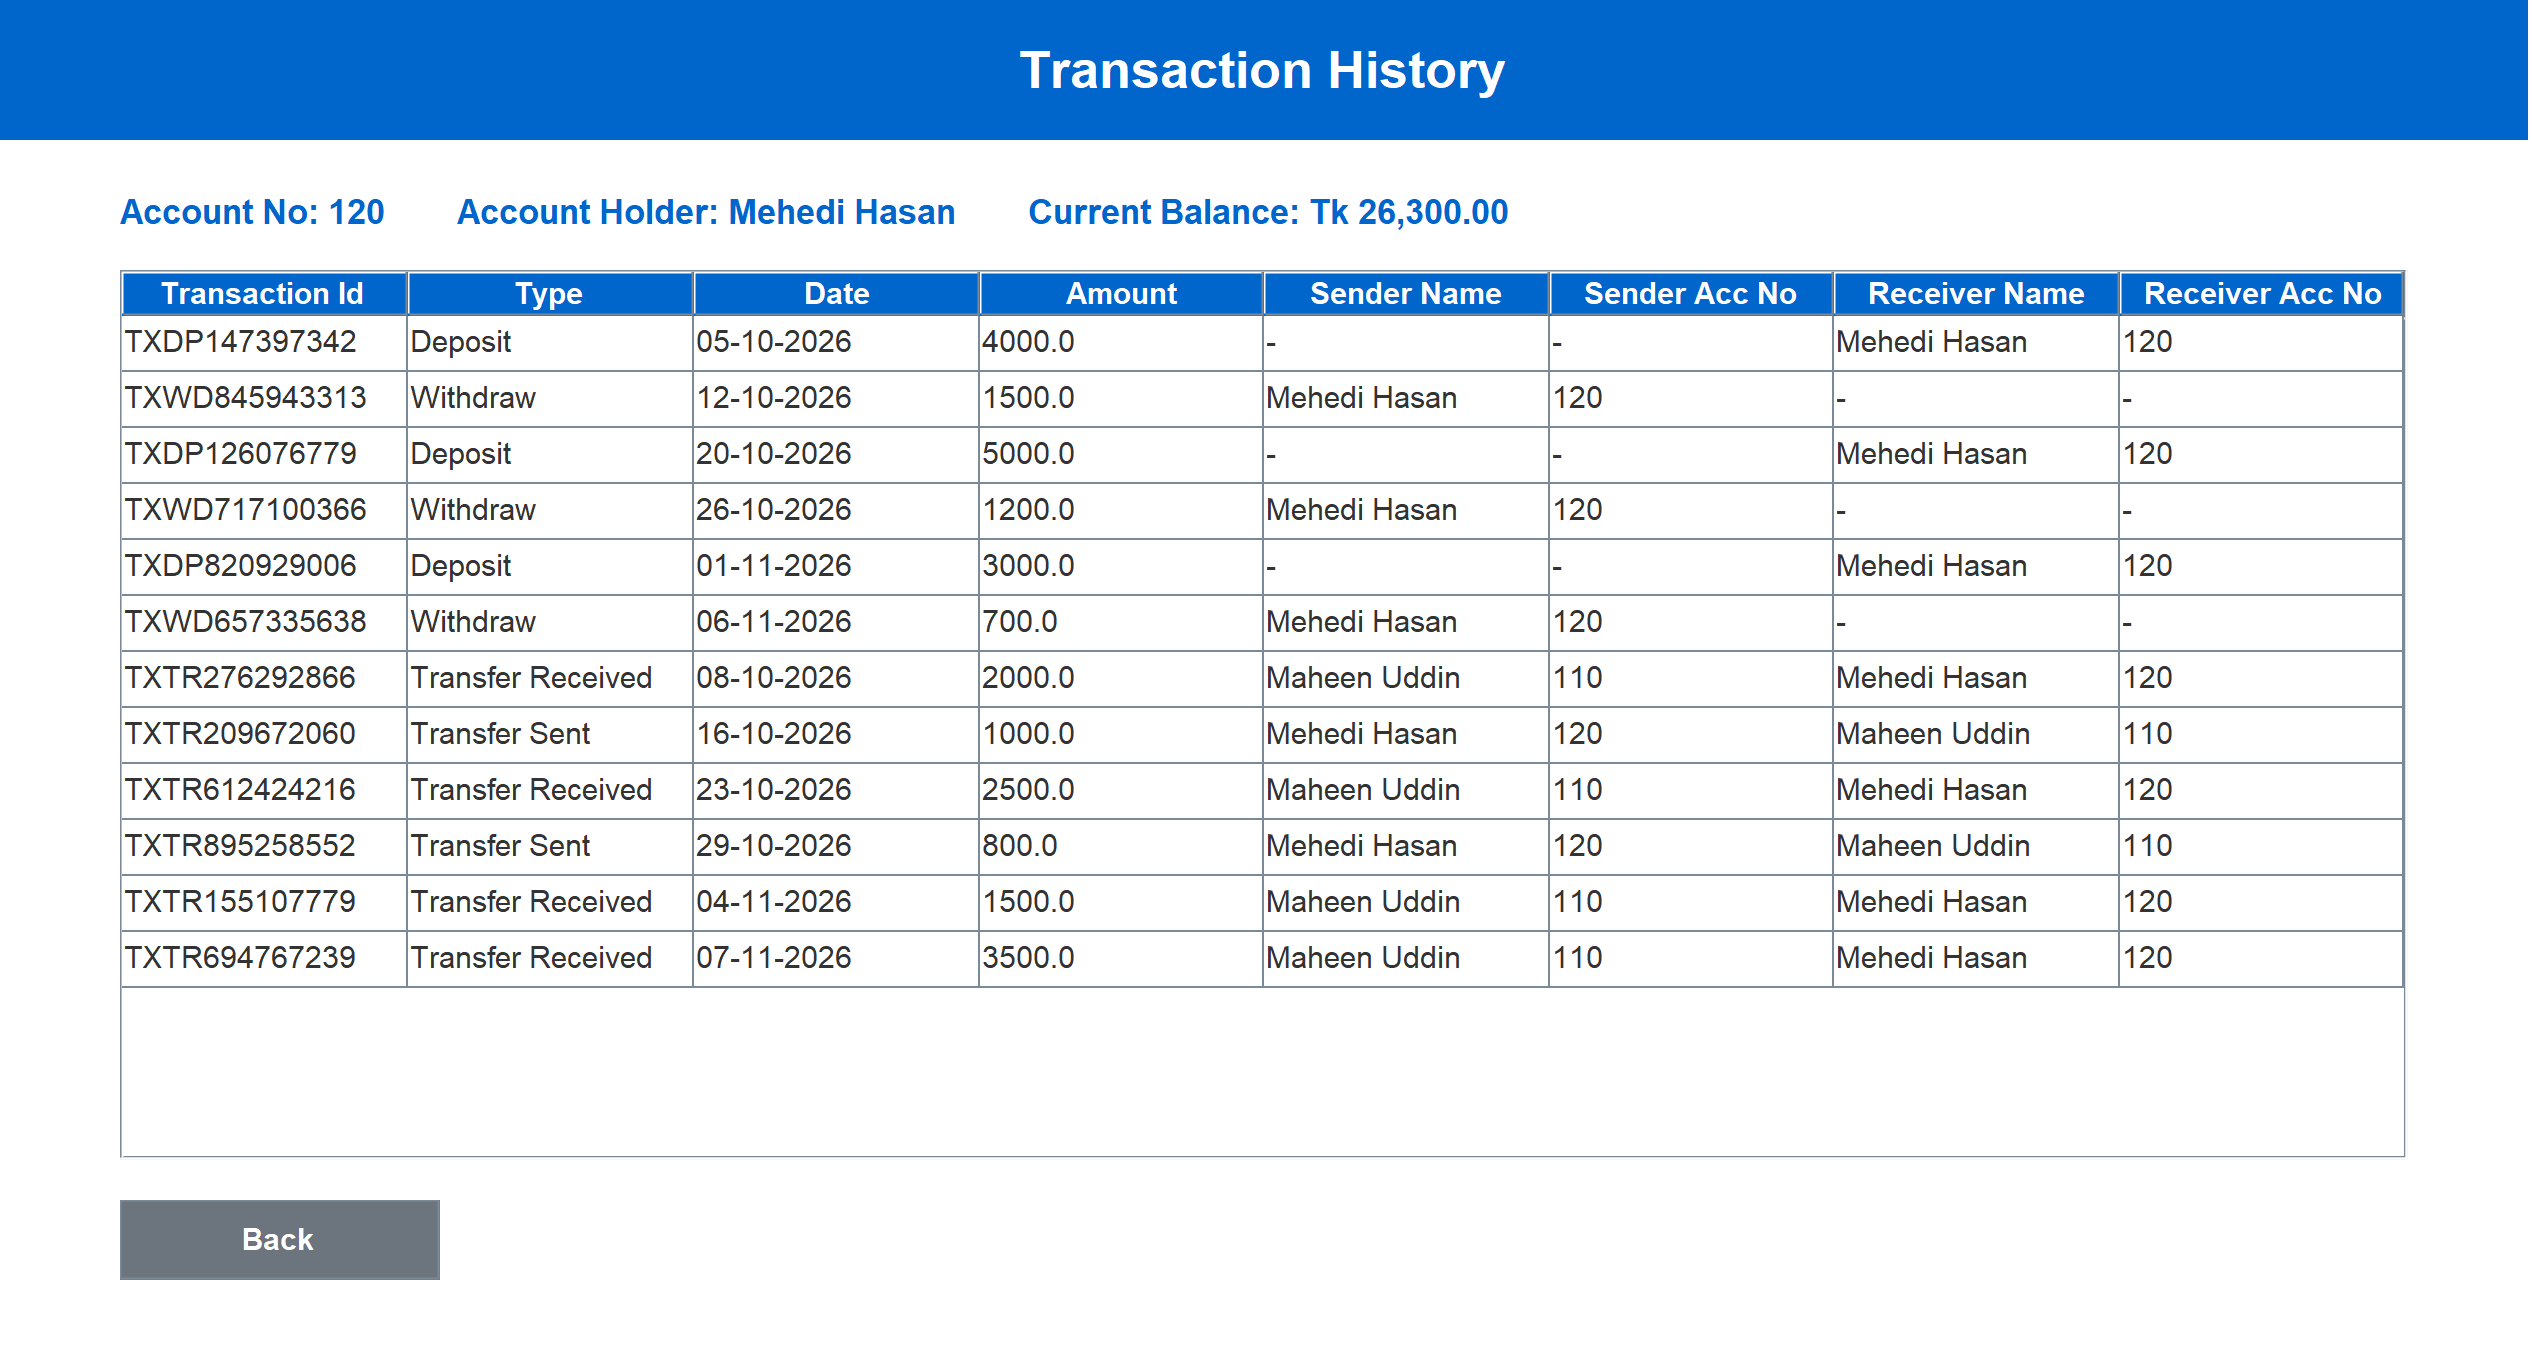
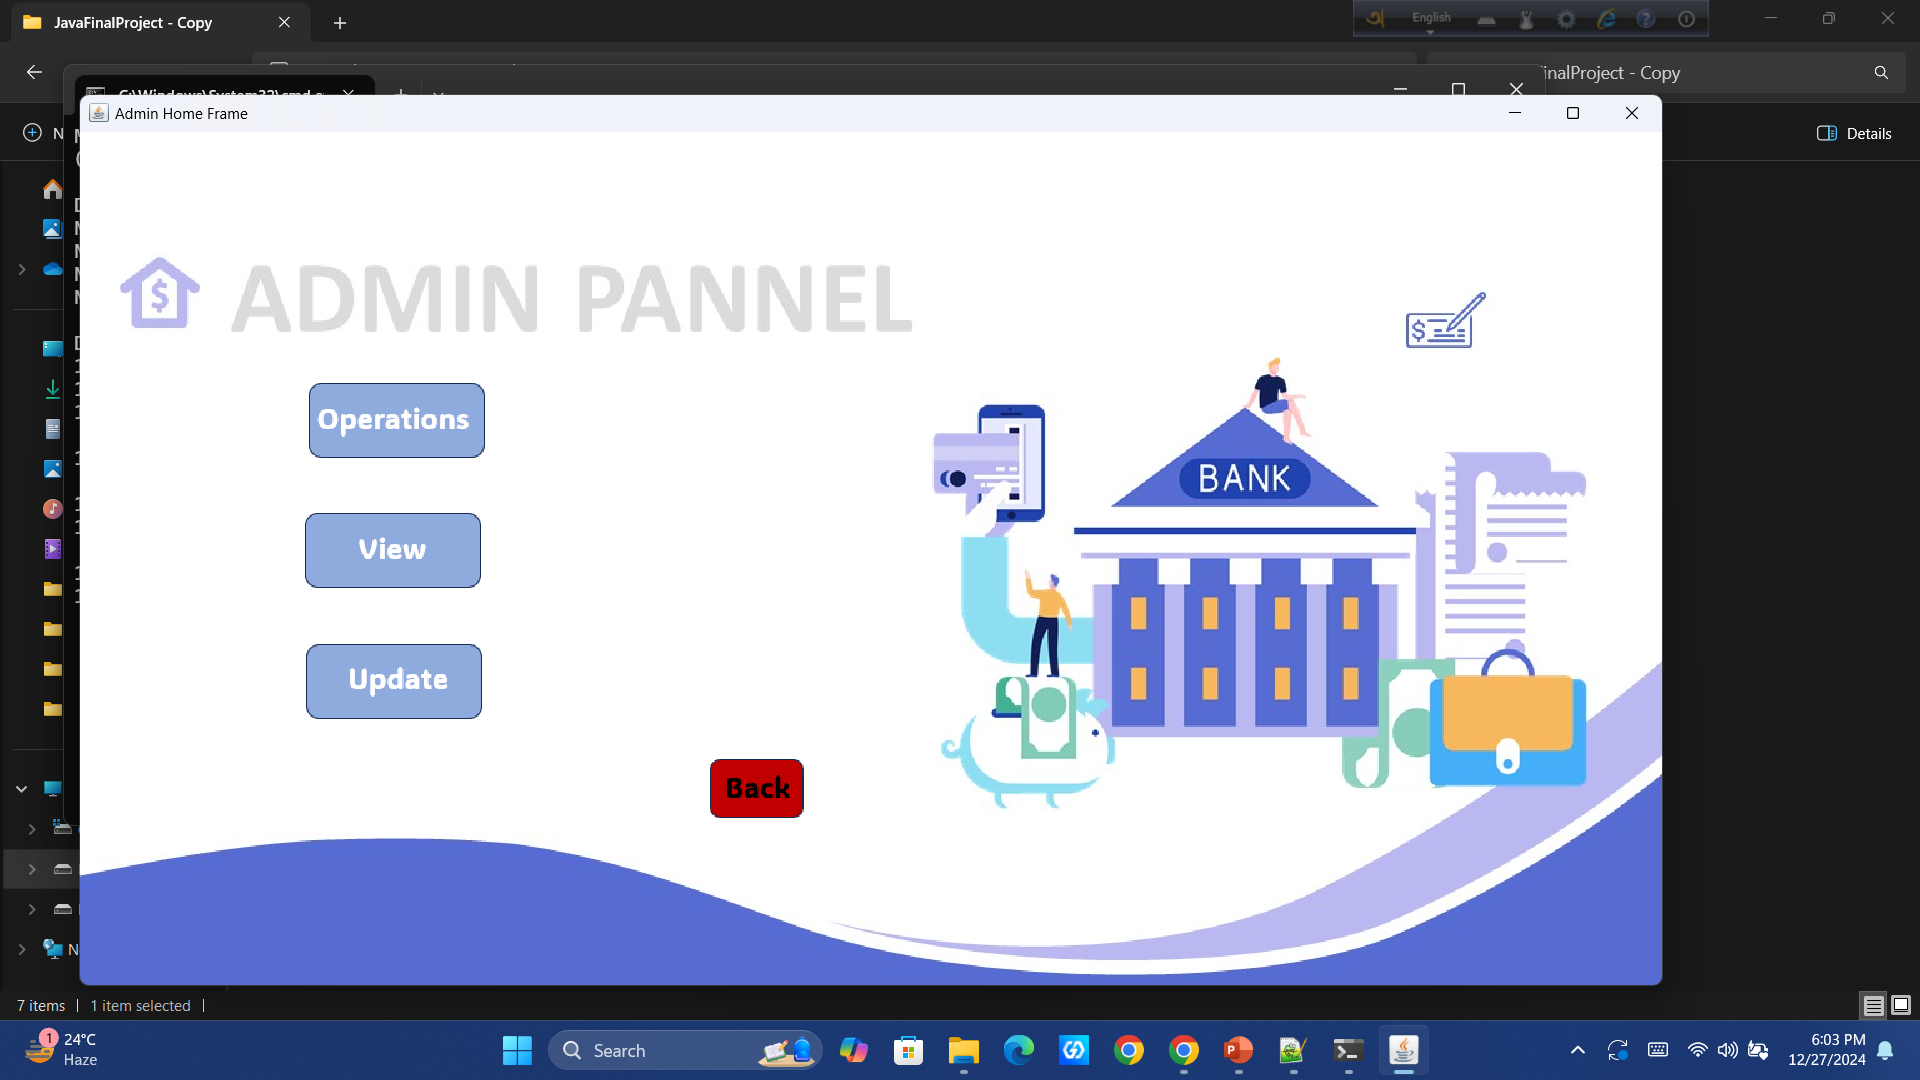
Replaced project picture

diff --git a/index.html b/index.html
@@ -27,7 +27,7 @@
     href="https://fonts.googleapis.com/css2?family=Inter:wght@400;500;600;700;800&family=Plus+Jakarta+Sans:wght@500;600;700;800&family=JetBrains+Mono:wght@400;500;600&display=swap"
     rel="stylesheet">
 
-  <link rel="stylesheet" href="css/styles.css?v=20261108-1">
+  <link rel="stylesheet" href="css/styles.css?v=20261108-2">
 </head>
 
 <body>
@@ -1023,10 +1023,10 @@
     }
   </script>
 
-  <script src="js/data.js?v=20261108-1"></script>
-  <script src="js/three-scene.js?v=20261108-1"></script>
-  <script src="js/app.js?v=20261108-1"></script>
-  <script src="js/admin.js?v=20261108-1"></script>
+  <script src="js/data.js?v=20261108-2"></script>
+  <script src="js/three-scene.js?v=20261108-2"></script>
+  <script src="js/app.js?v=20261108-2"></script>
+  <script src="js/admin.js?v=20261108-2"></script>
 </body>
 
 </html>

diff --git a/js/data.js b/js/data.js
@@ -207,7 +207,7 @@ const DEFAULT_PORTFOLIO_DATA = {
       tags: ["Java", "OOP", "Banking Workflows", "Desktop Application", "Transaction Handling"],
       github: "",
       demo: "",
-      image: "assets/images/bank management.png",
+      image: "assets/images/bank-transaction-history.webp",
       featured: true,
       metrics: "Completed Desktop Application • 100% OOP Architecture",
       highlights: [
